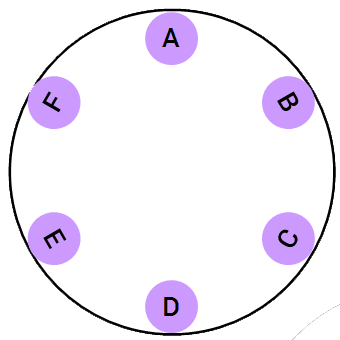
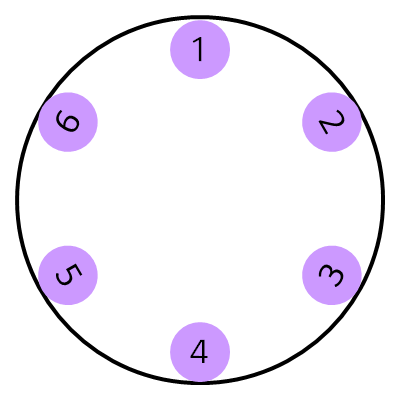
[css-round-display] Modify description of 'polar-distance' and 2d rotate function for polar

diff --git a/css-round-display/Overview.html b/css-round-display/Overview.html
@@ -55,7 +55,7 @@
   <div class="head">
    <p data-fill-with="logo"><a class="logo" href="http://www.w3.org/"> <img alt="W3C" height="48" src="https://www.w3.org/Icons/w3c_home" width="72"> </a> </p>
    <h1 class="p-name no-ref" id="title">CSS Round Display Level 1</h1>
-   <h2 class="no-num no-toc no-ref heading settled" id="subtitle"><span class="content">Editor’s Draft, <time class="dt-updated" datetime="2015-11-04">4 November 2015</time></span></h2>
+   <h2 class="no-num no-toc no-ref heading settled" id="subtitle"><span class="content">Editor’s Draft, <time class="dt-updated" datetime="2015-11-09">9 November 2015</time></span></h2>
    <div data-fill-with="spec-metadata">
     <dl>
      <dt>This version:
@@ -71,9 +71,8 @@
      <dt class="editor">Editors:
      <dd class="editor p-author h-card vcard"><a class="p-name fn u-email email" href="mailto:hyojin22.song@lge.com">Hyojin Song</a> (<span class="p-org org">LG Electronics</span>)
      <dd class="editor p-author h-card vcard"><a class="p-name fn u-email email" href="mailto:jh.hong@lge.com">Jihye Hong</a> (<span class="p-org org">LG Electronics</span>)
-     <dt>Former Editors:
-     <dd>
-      <dd class="editor p-author h-card vcard"><a class="p-name fn u-email email" href="mailto:soonbo.han@lge.com">Soonbo Han</a> (<span class="p-org org">LG Electronics</span>)
+     <dt class="editor">Former Editor:
+     <dd class="editor p-author h-card vcard"><a class="p-name fn u-email email" href="mailto:soonbo.han@lge.com">Soonbo Han</a> (<span class="p-org org">LG Electronics</span>)
     </dl>
    </div>
    <div data-fill-with="warning"></div>
@@ -137,11 +136,7 @@ on screen, on paper, in speech, etc.
       <li><a href="#polar-angle-property"><span class="secno">6.3</span> <span class="content">The <span class="property">polar-angle</span> property</span></a>
       <li><a href="#polar-distance-property"><span class="secno">6.4</span> <span class="content">The <span class="property">polar-distance</span> property</span></a>
       <li><a href="#polar-anchor-property"><span class="secno">6.5</span> <span class="content">The <span class="property">polar-anchor</span> property</span></a>
-     </ul>
-    <li>
-     <a href="#extending-svg-transform-functions"><span class="secno">7</span> <span class="content">Rotating content in polar coordinates</span></a>
-     <ul class="toc">
-      <li><a href="#2d-rotation-transform-function"><span class="secno">7.1</span> <span class="content">2D Rotation Transform Function</span></a>
+      <li><a href="#2d-rotation-transform-function"><span class="secno">6.6</span> <span class="content">2D Rotation Transform Function for self-rotating elements in polar coordinates</span></a>
      </ul>
     <li>
      <a href="#conformance"><span class="secno"></span> <span class="content"> Conformance</span></a>
@@ -508,7 +503,8 @@ on screen, on paper, in speech, etc.
      </div>
     </div>
     <h3 class="heading settled" data-level="6.2" id="polar-origin-property"><span class="secno">6.2. </span><span class="content">The <a class="property" data-link-type="propdesc" href="#propdef-polar-origin">polar-origin</a> property</span><a class="self-link" href="#polar-origin-property"></a></h3>
-     The <a class="property" data-link-type="propdesc" href="#propdef-polar-origin">polar-origin</a> property sets a point of origin for polar coordinate system. 
+    <p> The <a class="property" data-link-type="propdesc" href="#propdef-polar-origin">polar-origin</a> property sets a point of origin for polar coordinate system. <br> In conventional coordinate system, the origin of coordinate system implicitly set to upper left corner of the containing block. According to the origin, not only elements are positioned within the containing block but also prope
+기존 방식은 origin이 암시적으로(implicitly) containing block의 left-top으로 셋팅이 되어있고, 해당 origin을 기준으로 엘리먼트가 배치되고 display, margin, padding 등의 property들도 이러한 배경하에 동작을 했다. 하지만 polar좌표계에서는 이러한 origin이 기존의 left-top이 아닌 center로 명시되는 것이 합리적이며, 이 값은 필요에 따라 변경 가능한 상황이 발생할 수 있다. </p>
     <table class="definition propdef" data-link-for-hint="polar-origin">
      <tbody>
       <tr>
@@ -541,7 +537,7 @@ on screen, on paper, in speech, etc.
     </table>
     <p> Where </p>
     <dl> <b>&lt;position></b> = [ <br>  [ left | center | right | top | bottom | <var>&lt;percentage></var> | <var>&lt;length></var> ] <br> | <br>   [ left | center | right | <var>&lt;percentage></var> | <var>&lt;length></var> ] <br>   [ top | center | bottom | <var>&lt;percentage></var> | <var>&lt;length></var> ] <br> | <br>   [ center | [ left | right ] [ <var>&lt;percentage></var> | <var>&lt;length></var> ]? ] &amp;&amp; <br>   [ center | [ top | bottom ] [ <var>&lt;percentage></var> | <var>&lt;length></var> ]? ] <br> ] </dl>
-    <p>Values are defined like below:</p>
+    <p>Values are defined as follows:</p>
     <dl>
      <dt><var>&lt;percentage></var>
      <dd> A percentage for the horizontal offset is relative to the width of the containing block. A percentage for the vertical offset is relative to height of the containing block. 
@@ -551,27 +547,28 @@ on screen, on paper, in speech, etc.
      <dd> A length value gives a fixed length as the offset. The value for the horizontal and vertical offset represent an offset from the top left corner of the containing block. 
     </dl>
     <dl>
-     <dt>top
+     <dt><var>top</var>
      <dd> Computes to 0% for the vertical position. 
     </dl>
     <dl>
-     <dt>right
+     <dt><var>right</var>
      <dd> Computes to 100% for the horizontal position. 
     </dl>
     <dl>
-     <dt>bottom
+     <dt><var>bottom</var>
      <dd> Computes to 100% for the vertical position. 
     </dl>
     <dl>
-     <dt>left
+     <dt><var>left</var>
      <dd> Computes to 0% for the horizontal position. 
     </dl>
     <dl>
-     <dt>center
+     <dt><var>center</var>
      <dd> Computes to 50% (left 50%) for the horizontal position if the horizontal position is not otherwise specified, or 50% (top 50%) for the vertical position if it is. 
     </dl>
     <p></p>
     <p class="issue" id="issue-39a264ca"><a class="self-link" href="#issue-39a264ca"></a> Between the item and the containing block, which is appropriate for polar-origin value to be referenced of? </p>
+    <p class="issue" id="issue-c39f3836"><a class="self-link" href="#issue-c39f3836"></a> According to enable to specify the point of origin for polar coordinates, properties for specifying layout such as <a class="property" data-link-type="propdesc" href="https://drafts.csswg.org/css2/box.html#propdef-margin">margin</a>, <a class="property" data-link-type="propdesc" href="https://drafts.csswg.org/css2/box.html#propdef-padding">padding</a> would work different from the conventional coordinate system. We need different approaches to define those properties. </p>
     <h3 class="heading settled" data-level="6.3" id="polar-angle-property"><span class="secno">6.3. </span><span class="content">The <a class="property" data-link-type="propdesc" href="#propdef-polar-angle">polar-angle</a> property</span><a class="self-link" href="#polar-angle-property"></a></h3>
      The <a class="property" data-link-type="propdesc" href="#propdef-polar-angle">polar-angle</a> property specifies the angle from the Y-axis. This property is activated on condition of position: polar. 
     <table class="definition propdef" data-link-for-hint="polar-angle">
@@ -613,7 +610,7 @@ on screen, on paper, in speech, etc.
        <td><dfn class="css" data-dfn-type="property" data-export="" id="propdef-polar-distance">polar-distance<a class="self-link" href="#propdef-polar-distance"></a></dfn>
       <tr class="value">
        <th>Value:
-       <td class="prod">[ <a class="production css" data-link-type="type" href="https://drafts.csswg.org/css-values-3/#length-value">&lt;length></a> <a data-link-type="grammar" href="https://drafts.csswg.org/css-values-3/#comb-one">|</a> <a class="production css" data-link-type="type" href="https://drafts.csswg.org/css-values-3/#percentage-value">&lt;percentage></a> ] contain<a data-link-type="grammar" href="https://drafts.csswg.org/css-values-3/#mult-opt">?</a>
+       <td class="prod">[ <a class="production css" data-link-type="type" href="https://drafts.csswg.org/css-values-3/#length-value">&lt;length></a> <a data-link-type="grammar" href="https://drafts.csswg.org/css-values-3/#comb-one">|</a> <a class="production css" data-link-type="type" href="https://drafts.csswg.org/css-values-3/#percentage-value">&lt;percentage></a> ] &amp;&amp; contain<a data-link-type="grammar" href="https://drafts.csswg.org/css-values-3/#mult-opt">?</a>
       <tr>
        <th>Initial:
        <td>0
@@ -636,9 +633,8 @@ on screen, on paper, in speech, etc.
        <th>Animatable:
        <td>as <a href="http://www.w3.org/TR/css3-transitions/#animtype-lpcalc">length, percentage, or calc</a>
     </table>
-    <p> Where </p>
-    <dl> <b>&lt;polar-distance></b> = [ <var>&lt;length></var> | <var>&lt;percentage></var> ] contain? </dl>
-     <br> The first value specifies the distance between the origin of polar coordinates and the anchor point of the element. The second value may be omitted. If not so, it affects the calculated value of the first value. <br><br> Values have the following meanings: 
+    <p> The <code><a class="property" data-link-type="propdesc" href="#propdef-polar-distance">polar-distance</a></code> specifies the distance between the origin of polar coordinates and the anchor point of the element. </p>
+    <p><br> Values have the following meanings:</p>
     <dl>
      <dt><var>&lt;length></var>
      <dd> A length value gives a fixed length between the origin of polar coordinates and the anchor point of element. 
@@ -648,8 +644,11 @@ on screen, on paper, in speech, etc.
      <dd> A percentage is relative to the distance from a point of contact which is made by the edge of containing block’s shape and the gradient-line to the origin of polar coordinates. The starting point of the gradient-line is the origin of polar coordinates. And the value of the gradient of the line is polar angle value. 
     </dl>
     <dl>
-     <dt>contain
-     <dd> Adjust polar-distance value when positioned element within containing block overflows shape of the containing block. The main purpose for this value is avoiding overflow of positioning elements. When overflowing occurs, the distance between the center point of containing block and the anchor point of the element is reduced until there are less than 2 points of contact between edge of shape of containing block and content block of the element. 
+     <dt><var>contain</var>
+     <dd> Adjust polar-distance value of the positioned element which overflows shape of the containing block. 
+The main purpose of this value is avoiding overflow when positioning elements. 
+When overflowing occurs, the distance between the point of origin of polar coordinates and the anchor point of the element is reduced, 
+until there are 2 contact points or less between edge of shape of containing block and content block of the element. 
     </dl>
     <p></p>
     <div class="example" id="example-d6d90baf">
@@ -774,18 +773,24 @@ The first example shows positioning elements with polar-distance not using exten
     </div>
     <p class="issue" id="issue-43dc3773"><a class="self-link" href="#issue-43dc3773"></a> Is '<code>auto</code>' needed for value of <a class="property" data-link-type="propdesc" href="#propdef-polar-anchor">polar-anchor</a>? </p>
     <p class="issue" id="issue-9a7a089f"><a class="self-link" href="#issue-9a7a089f"></a> How to solve overflowing when an element has <a class="property" data-link-type="propdesc" href="#propdef-polar-anchor">polar-anchor</a> value as '<code>top</code>', <a class="property" data-link-type="propdesc" href="#propdef-polar-angle">polar-angle</a> value is 0deg, and <a class="property" data-link-type="propdesc" href="#propdef-polar-distance">polar-distance</a> is equal to the distance from center to edge of containing block? </p>
-    <h2 class="heading settled" data-level="7" id="extending-svg-transform-functions"><span class="secno">7. </span><span class="content">Rotating content in polar coordinates</span><a class="self-link" href="#extending-svg-transform-functions"></a></h2>
-    <h3 class="heading settled" data-level="7.1" id="2d-rotation-transform-function"><span class="secno">7.1. </span><span class="content">2D Rotation Transform Function</span><a class="self-link" href="#2d-rotation-transform-function"></a></h3>
-    <p> The <a class="property" data-link-type="propdesc" href="http://www.w3.org/TR/css3-2d-transforms/#propdef-transform">transform</a> property supports all transform functions by <a href="http://www.w3.org/TR/SVG/coords.html#TransformAttribute">The <span class="css">transform</span> attribute</a> in <a data-link-type="biblio" href="#biblio-svg11">[SVG11]</a>.
- When elements are positioned in polar coordinates, there are many usecases which show the elements rotated toward the origin of polar coordinates. In such cases, degree of rotation has to be specified in the 2d rotation function for each element. But when using the keyword value instead of the <a class="production css" data-link-type="type" href="https://drafts.csswg.org/css-values-3/#angle-value">&lt;angle></a> value, the calculation of accurate rotation degree may be omitted. <br><br> The two-dimensional rotation function <code><a href="http://www.w3.org/TR/css3-transforms/#funcdef-rotate">'rotate(<angle>)'</angle></a></code> used in polar coordinates is extended as follows: </p>
+    <h3 class="heading settled" data-level="6.6" id="2d-rotation-transform-function"><span class="secno">6.6. </span><span class="content">2D Rotation Transform Function for self-rotating elements in polar coordinates</span><a class="self-link" href="#2d-rotation-transform-function"></a></h3>
+    <p> When elements are positioned in polar coordinates, there are many usecases which show the elements rotated toward the origin of polar coordinates. In such cases, degree of rotation has to be specified in the 2d rotation function for each element. But when using the keyword value instead of the <a class="production css" data-link-type="type" href="https://drafts.csswg.org/css-values-3/#angle-value">&lt;angle></a> value, the calculation of accurate rotation degree may be omitted. <br><br> The two-dimensional rotation function <code><a href="http://www.w3.org/TR/css3-transforms/#funcdef-rotate">'rotate(<angle>)'</angle></a></code> used in polar coordinates is extended as follows: </p>
     <dl>
-     <dd> <code><a href="http://www.w3.org/TR/css3-transforms/#funcdef-rotate">rotate()</a> = rotate( [<a class="production css" data-link-type="type" href="https://drafts.csswg.org/css-values-3/#angle-value">&lt;angle></a> | [center | counter-center]] [, <a class="production css" data-link-type="type" href="http://www.w3.org/TR/css3-2d-transforms/#typedef-translation-value">&lt;translation-value></a>, <a class="production css" data-link-type="type" href="http://www.w3.org/TR/css3-2d-transforms/#typedef-translation-value">&lt;translation-value></a>]?)</code> 
+     <dd> <code><a href="http://www.w3.org/TR/css3-transforms/#funcdef-rotate">rotate()</a> = rotate( <a class="production css" data-link-type="type" href="https://drafts.csswg.org/css-values-3/#angle-value">&lt;angle></a> | center | counter-center)</code> 
     </dl>
-     The '<code>center</code>' keyword means that the element is rotated with the <a class="property" data-link-type="propdesc" href="#propdef-polar-angle">polar-angle</a> value. Therefore, when the anchor point of an element is center point of the
-element, a straight line passing through the anchor point meets the origin of the containing block.<br> And for the '<code>counter-center</code>', the element is rotated by the angle of the <a class="property" data-link-type="propdesc" href="#propdef-polar-angle">polar-angle</a> plus 180 degrees. 
+     Values have the following meanings: 
+    <dl>
+     <dt><var>center</var>
+     <dd> Rotate an element by the <a class="property" data-link-type="propdesc" href="#propdef-polar-angle">polar-angle</a> value. Therefore, when the anchor point of an element is center point of the
+element and there is a perpendicular line which passes through the anchor point, the line meets the origin of the containing block. 
+    </dl>
+    <dl>
+     <dt><var>counter-center</var>
+     <dd> Rotate an element by the angle of the <a class="property" data-link-type="propdesc" href="#propdef-polar-angle">polar-angle</a> plus 180 degrees. 
+    </dl>
     <p></p>
-    <div class="example" id="example-2894752f">
-     <a class="self-link" href="#example-2894752f"></a> This example shows how the keyword value works in the 2d rotation function. 
+    <div class="example" id="example-48b5a4ff">
+     <a class="self-link" href="#example-48b5a4ff"></a> This example shows how the keyword value works in the 2d rotation function. 
 <pre>&lt;style>
   #item1 {
     position: polar;
@@ -825,12 +830,12 @@ element, a straight line passing through the anchor point meets the origin of th
   }
 &lt;/style>
 &lt;body>
-  &lt;div id="item1">A&lt;/div>
-  &lt;div id="item2">B&lt;/div>
-  &lt;div id="item3">C&lt;/div>
-  &lt;div id="item4">D&lt;/div>
-  &lt;div id="item5">E&lt;/div>
-  &lt;div id="item6">F&lt;/div>
+  &lt;div id="item1">1&lt;/div>
+  &lt;div id="item2">2&lt;/div>
+  &lt;div id="item3">3&lt;/div>
+  &lt;div id="item4">4&lt;/div>
+  &lt;div id="item5">5&lt;/div>
+  &lt;div id="item6">6&lt;/div>
 &lt;/body>
 </pre>
      <div style="width: 500px; text-align: center">
@@ -941,12 +946,6 @@ element, a straight line passing through the anchor point meets the origin of th
   <h3 class="no-num heading settled" id="index-defined-elsewhere"><span class="content">Terms defined by reference</span><a class="self-link" href="#index-defined-elsewhere"></a></h3>
   <ul class="indexlist">
    <li>
-    <a data-link-type="biblio" href="#biblio-css-2d-transforms-1">[css-2d-transforms-1]</a> defines the following terms:
-    <ul>
-     <li><a href="http://www.w3.org/TR/css3-2d-transforms/#typedef-translation-value">&lt;translation-value></a>
-     <li><a href="http://www.w3.org/TR/css3-2d-transforms/#propdef-transform">transform</a>
-    </ul>
-   <li>
     <a data-link-type="biblio" href="#biblio-css-backgrounds-3">[css-backgrounds-3]</a> defines the following terms:
     <ul>
      <li><a href="https://drafts.csswg.org/css-backgrounds-3/#position">&lt;position></a>
@@ -986,6 +985,8 @@ element, a straight line passing through the anchor point meets the origin of th
     <a data-link-type="biblio" href="#biblio-css21">[CSS21]</a> defines the following terms:
     <ul>
      <li><a href="https://drafts.csswg.org/css2/syndata.html#value-def-uri">&lt;uri></a>
+     <li><a href="https://drafts.csswg.org/css2/box.html#propdef-margin">margin</a>
+     <li><a href="https://drafts.csswg.org/css2/box.html#propdef-padding">padding</a>
     </ul>
   </ul>
   <h2 class="no-num heading settled" id="references"><span class="content">References</span><a class="self-link" href="#references"></a></h2>
@@ -995,8 +996,6 @@ element, a straight line passing through the anchor point meets the origin of th
    <dd>Vincent Hardy; Rossen Atanassov; Alan Stearns. <a href="http://www.w3.org/TR/css-shapes-1/">CSS Shapes Module Level 1</a>. 20 March 2014. CR. URL: <a href="http://www.w3.org/TR/css-shapes-1/">http://www.w3.org/TR/css-shapes-1/</a>
    <dt id="biblio-css21"><a class="self-link" href="#biblio-css21"></a>[CSS21]
    <dd>Bert Bos; et al. <a href="http://www.w3.org/TR/CSS2">Cascading Style Sheets Level 2 Revision 1 (CSS 2.1) Specification</a>. 7 June 2011. REC. URL: <a href="http://www.w3.org/TR/CSS2">http://www.w3.org/TR/CSS2</a>
-   <dt id="biblio-css-2d-transforms-1"><a class="self-link" href="#biblio-css-2d-transforms-1"></a>[CSS-2D-TRANSFORMS-1]
-   <dd>CSS 2D Transforms Module Level 1 URL: <a href="http://www.w3.org/TR/css3-2d-transforms/">http://www.w3.org/TR/css3-2d-transforms/</a>
    <dt id="biblio-css-backgrounds-3"><a class="self-link" href="#biblio-css-backgrounds-3"></a>[CSS-BACKGROUNDS-3]
    <dd>CSS Backgrounds and Borders Module Level 3 URL: <a href="http://www.w3.org/TR/css3-background/">http://www.w3.org/TR/css3-background/</a>
    <dt id="biblio-css-conditional-3"><a class="self-link" href="#biblio-css-conditional-3"></a>[CSS-CONDITIONAL-3]
@@ -1012,8 +1011,6 @@ element, a straight line passing through the anchor point meets the origin of th
   </dl>
   <h3 class="no-num heading settled" id="informative"><span class="content">Informative References</span><a class="self-link" href="#informative"></a></h3>
   <dl>
-   <dt id="biblio-svg11"><a class="self-link" href="#biblio-svg11"></a>[SVG11]
-   <dd>Erik Dahlström; et al. <a href="http://www.w3.org/TR/SVG11/">Scalable Vector Graphics (SVG) 1.1 (Second Edition)</a>. 16 August 2011. REC. URL: <a href="http://www.w3.org/TR/SVG11/">http://www.w3.org/TR/SVG11/</a>
    <dt id="biblio-css-shapes-1"><a class="self-link" href="#biblio-css-shapes-1"></a>[CSS-SHAPES-1]
    <dd>Vincent Hardy; Rossen Atanassov; Alan Stearns. <a href="http://www.w3.org/TR/css-shapes-1/">CSS Shapes Module Level 1</a>. 20 March 2014. CR. URL: <a href="http://www.w3.org/TR/css-shapes-1/">http://www.w3.org/TR/css-shapes-1/</a>
    <dt id="biblio-css3-border"><a class="self-link" href="#biblio-css3-border"></a>[CSS3-BORDER]
@@ -1090,7 +1087,7 @@ element, a straight line passing through the anchor point meets the origin of th
       <td>as specified
      <tr>
       <th scope="row"><a class="css" data-link-type="property" href="#propdef-polar-distance">polar-distance</a>
-      <td>[ &lt;length> | &lt;percentage> ] contain?
+      <td>[ &lt;length> | &lt;percentage> ] &amp;&amp; contain?
       <td>0
       <td>all elements
       <td>no
@@ -1134,6 +1131,7 @@ element, a straight line passing through the anchor point meets the origin of th
    <div class="issue"> Using <a class="property" data-link-type="propdesc" href="#descdef-media-device-radius">device-radius</a> with just a single value (e.g. device-radius: 50%) is enough (for simplicity)? Otherwise, do we need to support all possible values the same as <a class="property" data-link-type="propdesc" href="https://drafts.csswg.org/css-backgrounds-3/#border-radius">border-radius</a>? <a href="#issue-08465960"> ↵ </a></div>
    <div class="issue"> What if content overflows? Clipping or scrolling? <a href="#issue-8d78506c"> ↵ </a></div>
    <div class="issue"> Between the item and the containing block, which is appropriate for polar-origin value to be referenced of? <a href="#issue-39a264ca"> ↵ </a></div>
+   <div class="issue"> According to enable to specify the point of origin for polar coordinates, properties for specifying layout such as <a class="property" data-link-type="propdesc" href="https://drafts.csswg.org/css2/box.html#propdef-margin">margin</a>, <a class="property" data-link-type="propdesc" href="https://drafts.csswg.org/css2/box.html#propdef-padding">padding</a> would work different from the conventional coordinate system. We need different approaches to define those properties. <a href="#issue-c39f3836"> ↵ </a></div>
    <div class="issue"> Would polar-distance property need auto value? <a href="#issue-6bae502e"> ↵ </a></div>
    <div class="issue"> How to rotate the element itself with an axis from the element position to the central point of containing block? Is new property needed to support that at one time in polar coordinate system? <a href="#issue-5df272e7"> ↵ </a></div>
    <div class="issue"> How to position items to the edge of the containing block without overflowing it? (<i>polar-anchor</i> could be suggested) <a href="#issue-8465ee32"> ↵ </a></div>
